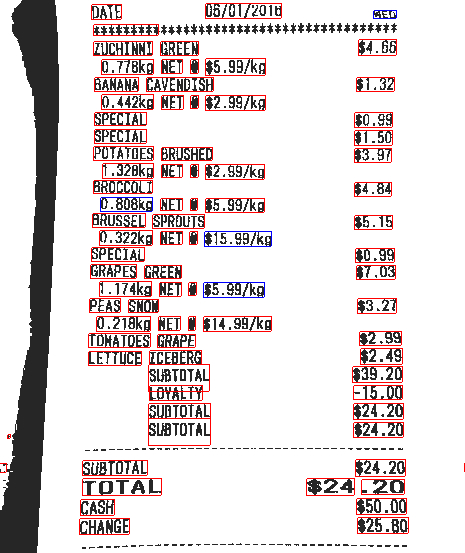
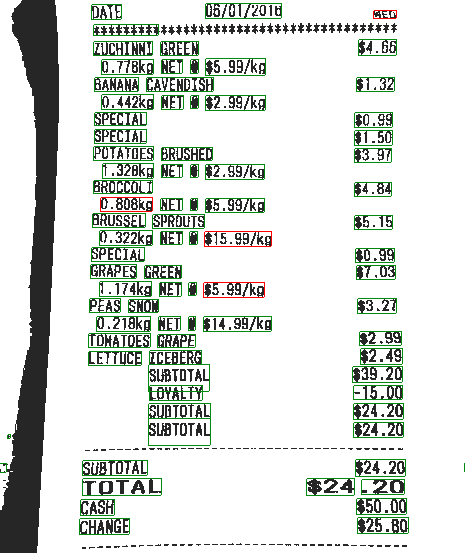
minor refactoring

diff --git a/tesseract-demo/red-boxes.js b/tesseract-demo/red-boxes.js
@@ -2,55 +2,67 @@ import { createWorker } from 'tesseract.js';
 import Jimp from 'jimp';
 const worker = await createWorker();
 
-async function boxit()
-{
+const preprocessedImage = "receipts/preprocessedImage.jpg";
+const boxesImage = "receipts/box.jpg";
+
+const goodConfidence = '0x028A0FFF';
+const badConfidence = '0xFF0000FF';
+
+
+async function boxit() {
     await worker.loadLanguage('eng');
     await worker.initialize('eng');
-    
-    let test = "receipts/test.jpg"
-    let box = "receipts/box.jpg"
 
-    const pic = new Jimp(test)
-    const { data: { lines } } = await worker.recognize(test);
+    const pic = new Jimp(preprocessedImage)
+    const { data: { lines } } = await worker.recognize(preprocessedImage);
     
     for (let i = 0; i < lines.length; i++)
     {
         for (let j = 0; j < lines[i].words.length; j++)
         {
-            let l = lines[i];
-            let h = l.words[j].bbox.y1 - l.words[j].bbox.y0;
-            let w = l.words[j].bbox.x1 - l.words[j].bbox.x0;
+          let l = lines[i];
+          let h = l.words[j].bbox.y1 - l.words[j].bbox.y0;
+          let w = l.words[j].bbox.x1 - l.words[j].bbox.x0;
 
-            if (l.words[j].confidence > 70)
-            {  
-            console.log("line: " + i + ": " + l.words[j].confidence);
-                try
-                {
-                    await pic.scan(l.words[j].bbox.x0, l.words[j].bbox.y0 - 1, w + 1, 1, funcy(0xFF0000FF)).writeAsync(box); // top
-                    await pic.scan(l.words[j].bbox.x0 - 1, l.words[j].bbox.y0, 1, h + 1, funcy(0xFF0000FF)).writeAsync(box); // left
-                    await pic.scan(l.words[j].bbox.x1, l.words[j].bbox.y0 - 1, 1, h + 1, funcy(0xFF0000FF)).writeAsync(box); // right
-                    await pic.scan(l.words[j].bbox.x0 - 1, l.words[j].bbox.y1, w + 1, 1, funcy(0xFF0000FF)).writeAsync(box); // bottom
-                }catch(err) 
-                {
-                    console.log("error: " + err)
-                    console.log("line: " + i + " " + l.words[j].text + " bbox-h: " + h + " bbox-w: " + w);
-                }
-            }
-            else
-            {
-            await pic.scan(l.words[j].bbox.x0, l.words[j].bbox.y0, w, h, funcy(0x0000FFFF)).writeAsync(box);
-            }   
+          if (l.words[j].confidence > 10)
+          {  
+              try
+              {
+                  await pic.scan(l.words[j].bbox.x0, l.words[j].bbox.y0 - 1, w + 1, 1, funcy(goodConfidence)).writeAsync(boxesImage); // top
+                  await pic.scan(l.words[j].bbox.x0 - 1, l.words[j].bbox.y0, 1, h + 1, funcy(goodConfidence)).writeAsync(boxesImage); // left
+                  await pic.scan(l.words[j].bbox.x1, l.words[j].bbox.y0 - 1, 1, h + 1, funcy(goodConfidence)).writeAsync(boxesImage); // right
+                  await pic.scan(l.words[j].bbox.x0 - 1, l.words[j].bbox.y1, w + 1, 1, funcy(goodConfidence)).writeAsync(boxesImage); // bottom
+              }catch(err) 
+              {
+                  console.log("error: " + err)
+                  console.log("line: " + i + " " + l.words[j].text + " bbox-h: " + h + " bbox-w: " + w);
+              }
+          }
+          else
+          {
+            try
+              {
+                  await pic.scan(l.words[j].bbox.x0, l.words[j].bbox.y0 - 1, w + 1, 1, funcy(badConfidence)).writeAsync(boxesImage); // top
+                  await pic.scan(l.words[j].bbox.x0 - 1, l.words[j].bbox.y0, 1, h + 1, funcy(badConfidence)).writeAsync(boxesImage); // left
+                  await pic.scan(l.words[j].bbox.x1, l.words[j].bbox.y0 - 1, 1, h + 1, funcy(badConfidence)).writeAsync(boxesImage); // right
+                  await pic.scan(l.words[j].bbox.x0 - 1, l.words[j].bbox.y1, w + 1, 1, funcy(badConfidence)).writeAsync(boxesImage); // bottom
+              }catch(err) 
+              {
+                  console.log("error: " + err)
+                  console.log("line: " + i + " " + l.words[j].text + " bbox-h: " + h + " bbox-w: " + w);
+              }
+          }   
         }
     }
     await worker.terminate();
-};
-
-
+    return boxesImage;
+  };
+  
 function funcy(color)
 {
-    return function(x, y, offset) {
-        this.bitmap.data.writeUInt32BE(color, offset);
-    }
+  return function(x, y, offset){
+    this.bitmap.data.writeUInt32BE(color, offset);
+  }
 };
 
 export default boxit;

diff --git a/tesseract-demo/image-preprocessing.js b/tesseract-demo/image-preprocessing.js
@@ -1,11 +1,8 @@
-import { createWorker } from 'tesseract.js';
 import Jimp from 'jimp';
-const worker = await createWorker();
 
 const preprocessedImage = "receipts/preprocessedImage.jpg";
-const boxesImage = "receipts/box.jpg";
 
-async function colorContrast(input)
+async function preprocess(input)
 {
   Jimp.read(input).then(image => {
     console.log("height: " + image.bitmap.height)
@@ -18,62 +15,7 @@ async function colorContrast(input)
   }).catch(err => {
     if (err) throw err;
   });
+  return preprocessedImage;
 }
 
-async function individualText() {
-    await worker.loadLanguage('eng');
-    await worker.initialize('eng');
-
-    const pic = new Jimp(preprocessedImage)
-    const { data: { lines } } = await worker.recognize(preprocessedImage);
-    
-    for (let i = 0; i < lines.length; i++)
-    {
-        for (let j = 0; j < lines[i].words.length; j++)
-        {
-          let l = lines[i];
-          let h = l.words[j].bbox.y1 - l.words[j].bbox.y0;
-          let w = l.words[j].bbox.x1 - l.words[j].bbox.x0;
-
-          if (l.words[j].confidence > 10)
-          {  
-              try
-              {
-                  await pic.scan(l.words[j].bbox.x0, l.words[j].bbox.y0 - 1, w + 1, 1, funcy(0xFF0000FF)).writeAsync(boxesImage); // top
-                  await pic.scan(l.words[j].bbox.x0 - 1, l.words[j].bbox.y0, 1, h + 1, funcy(0xFF0000FF)).writeAsync(boxesImage); // left
-                  await pic.scan(l.words[j].bbox.x1, l.words[j].bbox.y0 - 1, 1, h + 1, funcy(0xFF0000FF)).writeAsync(boxesImage); // right
-                  await pic.scan(l.words[j].bbox.x0 - 1, l.words[j].bbox.y1, w + 1, 1, funcy(0xFF0000FF)).writeAsync(boxesImage); // bottom
-              }catch(err) 
-              {
-                  console.log("error: " + err)
-                  console.log("line: " + i + " " + l.words[j].text + " bbox-h: " + h + " bbox-w: " + w);
-              }
-          }
-          else
-          {
-            try
-              {
-                  await pic.scan(l.words[j].bbox.x0, l.words[j].bbox.y0 - 1, w + 1, 1, funcy(0x0000FFFF)).writeAsync(boxesImage); // top
-                  await pic.scan(l.words[j].bbox.x0 - 1, l.words[j].bbox.y0, 1, h + 1, funcy(0x0000FFFF)).writeAsync(boxesImage); // left
-                  await pic.scan(l.words[j].bbox.x1, l.words[j].bbox.y0 - 1, 1, h + 1, funcy(0x0000FFFF)).writeAsync(boxesImage); // right
-                  await pic.scan(l.words[j].bbox.x0 - 1, l.words[j].bbox.y1, w + 1, 1, funcy(0x0000FFFF)).writeAsync(boxesImage); // bottom
-              }catch(err) 
-              {
-                  console.log("error: " + err)
-                  console.log("line: " + i + " " + l.words[j].text + " bbox-h: " + h + " bbox-w: " + w);
-              }
-          }   
-        }
-    }
-    await worker.terminate();
-    return boxesImage;
-  };
-  
-function funcy(color)
-{
-  return function(x, y, offset){
-    this.bitmap.data.writeUInt32BE(color, offset);
-  }
-};
-
-export { colorContrast, individualText };
+export default preprocess;

diff --git a/tesseract-demo/index.js b/tesseract-demo/index.js
@@ -3,24 +3,13 @@
  *                           npm i
  *                           node index.js [imagepath]
  *********************************************************/
-import path from 'path'
 import analyze_receipt from './analyze-receipt.js';
-import { colorContrast, individualText } from './image-preprocessing.js';
+import preprocess from './image-preprocessing.js';
 
 let defaultImagePath = "receipts/receipt2.jpeg";
 
-try
-{
-  let userInput = process.argv[2];
-  let imagePath = path.resolve(userInput || defaultImagePath)
-  
-  let contrastedImage = await colorContrast(imagePath);
-  let boxes = await individualText(contrastedImage);
-  let arr = await analyze_receipt("receipts/preprocessedImage.jpg");
-  
-  console.log(arr);
-}
-catch(err)
-{
-  console.log(err);
-}
+
+let imagePath = await preprocess(defaultImagePath);
+let arr = await analyze_receipt(imagePath);
+
+console.log(arr);

diff --git a/tesseract-demo/analyze-receipt.js b/tesseract-demo/analyze-receipt.js
@@ -1,15 +1,14 @@
 import { createWorker } from 'tesseract.js';
-const worker = await createWorker();
 
+const worker = await createWorker();
 async function analyze_receipt(input) {
     await worker.loadLanguage('eng');
     await worker.initialize('eng');
     const { data: { lines } } = await worker.recognize(input);
     
     let arr = new Array(lines.length);
-    let totalConfidence = 0;
-    for (let i = 0; i < lines.length; i++)
-    {
+    
+    for (let i = 0; i < lines.length; i++) {
       arr[i] = [lines[i].text, lines[i].confidence];
     }
     await worker.terminate();
